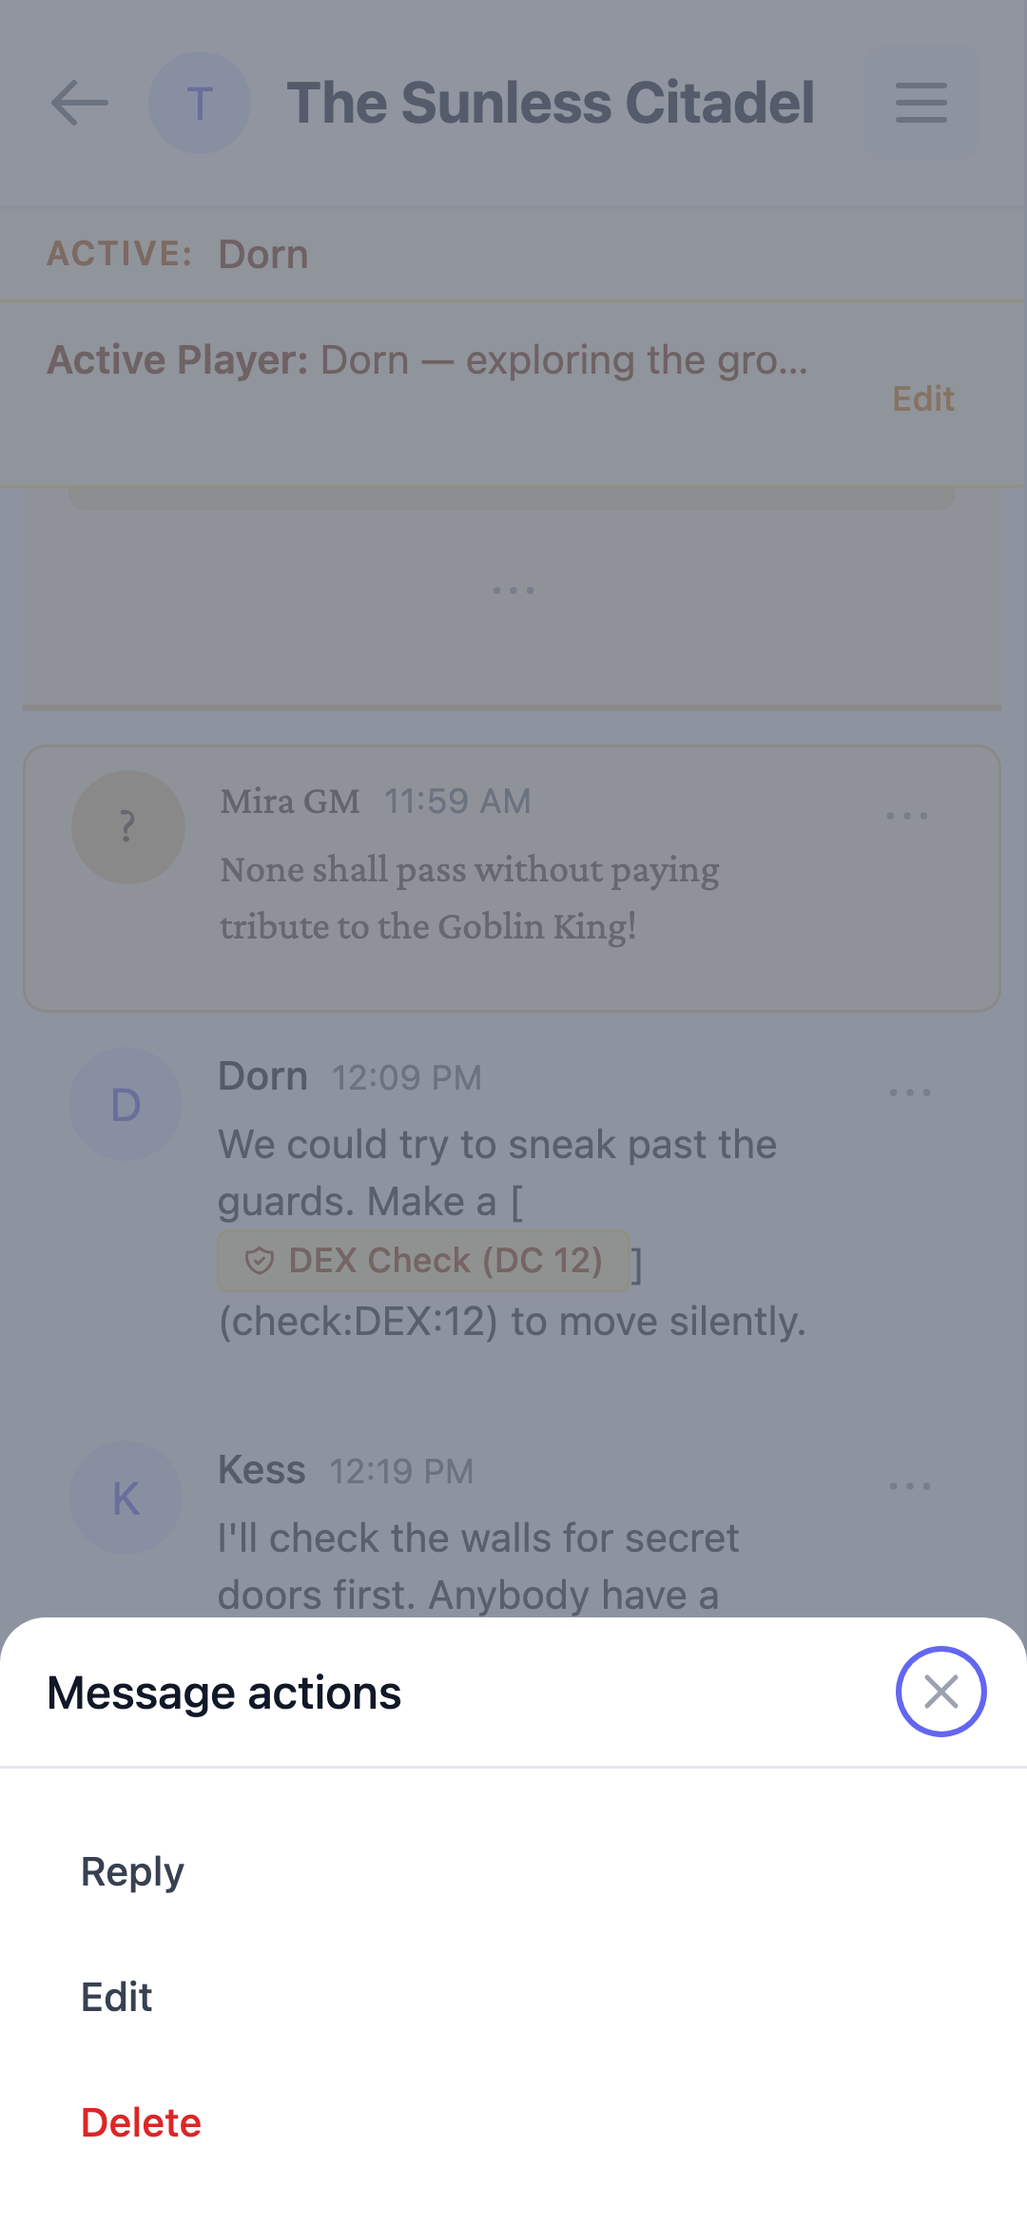
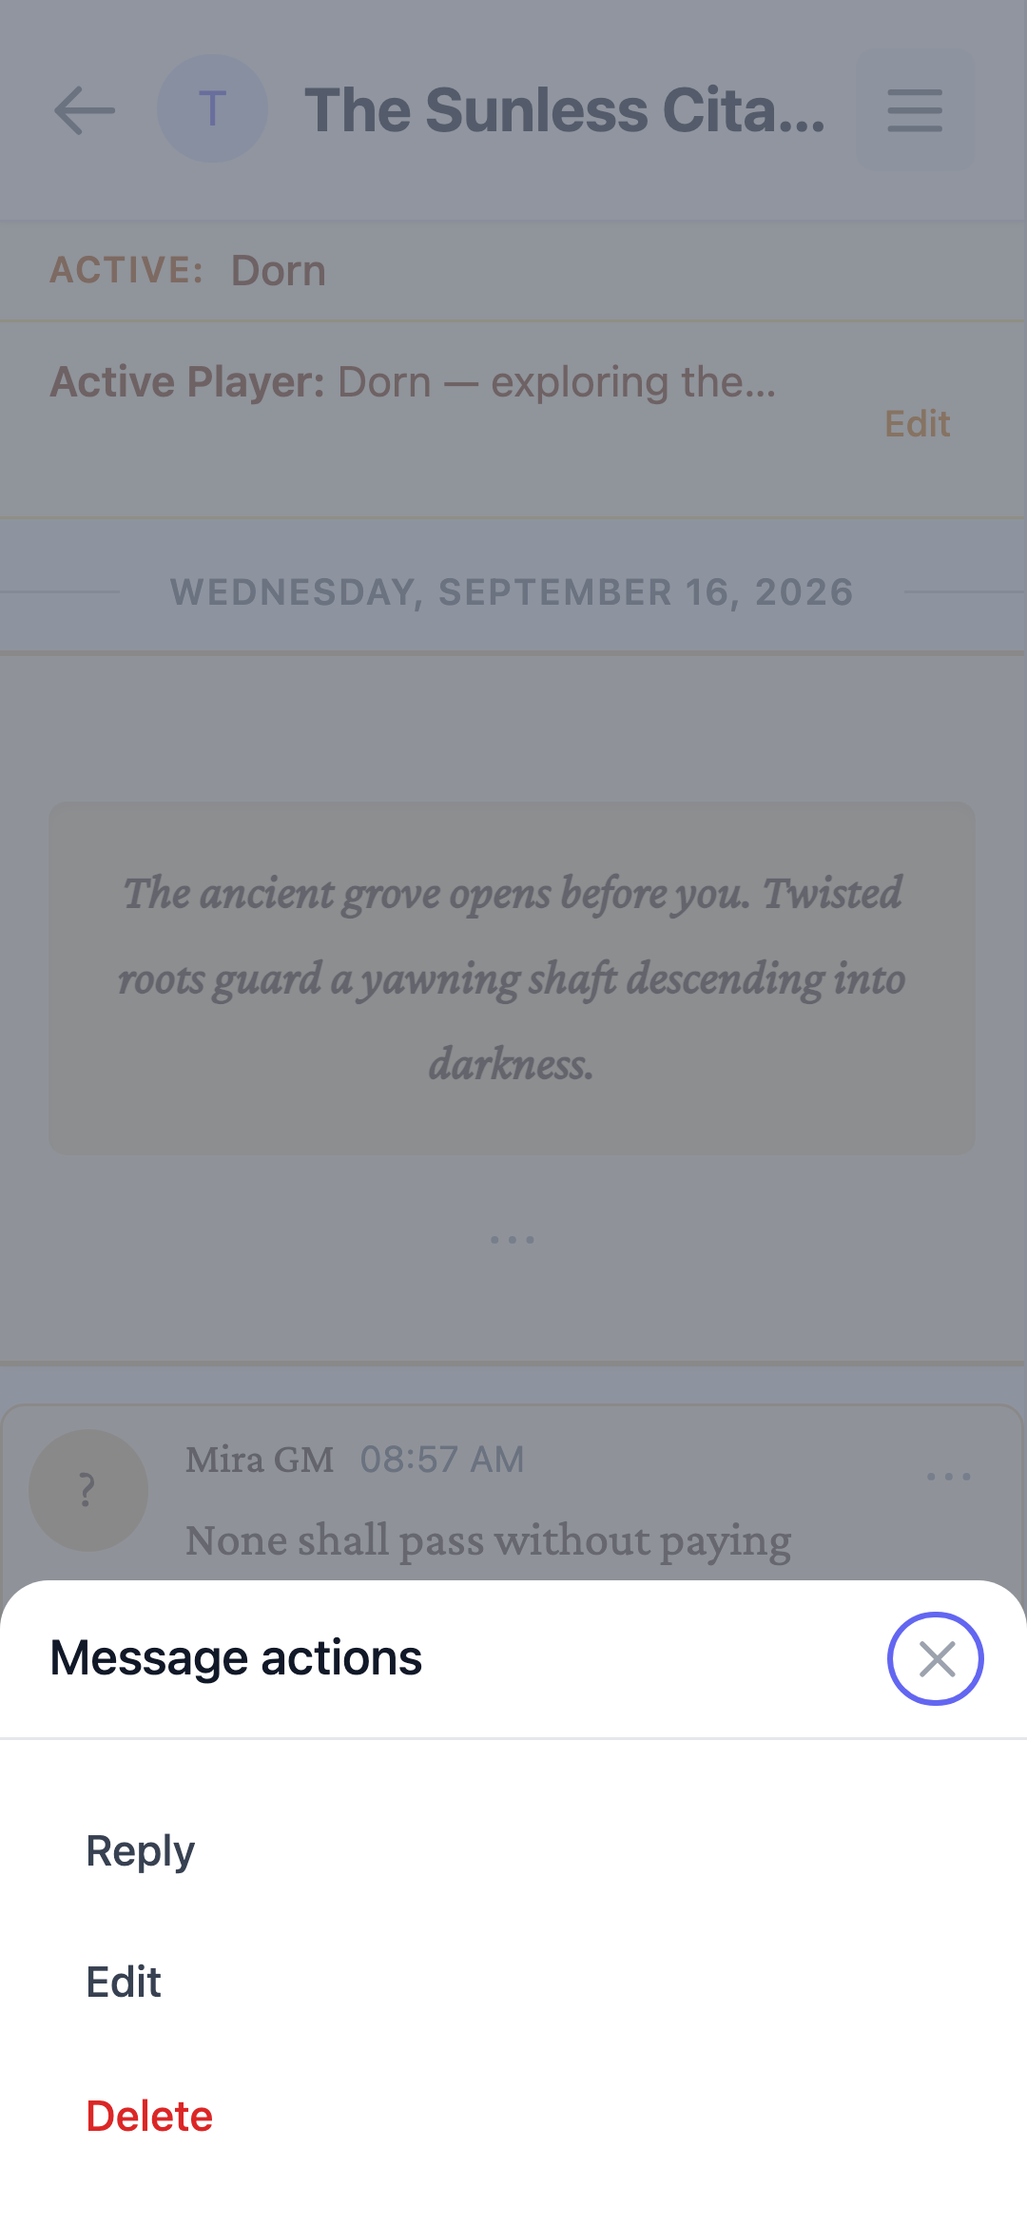
feat(#523): legible default text, remove text-size setting

diff --git a/src/features/chat/MessageItem.tsx b/src/features/chat/MessageItem.tsx
@@ -690,17 +690,17 @@ img: ({ node: _node, src, alt, ...props }: React.ComponentProps<'img'> & { node?
               {senderName} rolled dice
             </span>
             {message.roll_dc != null && (
-              <span className="inline-flex items-center px-2 py-0.5 rounded-full text-[10px] font-bold uppercase bg-amber-100 dark:bg-amber-900 text-amber-800 dark:text-amber-300">
+              <span className="inline-flex items-center px-2 py-0.5 rounded-full text-[0.625rem] font-bold uppercase bg-amber-100 dark:bg-amber-900 text-amber-800 dark:text-amber-300">
                 DC {message.roll_dc}
               </span>
             )}
             {typeof message.roll_success === 'boolean' && (
-              <span className={`inline-flex items-center px-2 py-0.5 rounded-full text-[10px] font-bold uppercase ${isSuccess ? 'bg-green-100 dark:bg-green-900 text-green-800 dark:text-green-300' : 'bg-red-100 dark:bg-red-900 text-red-800 dark:text-red-300'}`}>
+              <span className={`inline-flex items-center px-2 py-0.5 rounded-full text-[0.625rem] font-bold uppercase ${isSuccess ? 'bg-green-100 dark:bg-green-900 text-green-800 dark:text-green-300' : 'bg-red-100 dark:bg-red-900 text-red-800 dark:text-red-300'}`}>
                 {isSuccess ? 'Success' : 'Failure'}
               </span>
             )}
           </div>
-          <div className="text-surface-900 dark:text-surface-100 text-sm">
+          <div className="text-surface-900 dark:text-surface-100 text-base">
             <Markdown>{message.content}</Markdown>
           </div>
           {errorOverlay}
@@ -710,7 +710,7 @@ img: ({ node: _node, src, alt, ...props }: React.ComponentProps<'img'> & { node?
   }
 
   return (
-    <div ref={itemRef} className={`relative group flex items-start space-x-3 my-1 px-4 py-2 transition-all duration-1000 ${isWhisper ? 'bg-purple-50 dark:bg-purple-950 rounded-lg border border-purple-100 dark:border-purple-900' : ''} ${isNpc ? 'bg-parchment dark:bg-parchment-dark rounded-lg border border-parchment-border dark:border-parchment-border-dark' : ''} ${isHighlighted ? 'bg-yellow-50 dark:bg-yellow-950 ring-2 ring-yellow-400 rounded-lg' : ''} ${message.pending ? 'opacity-60' : ''}`}>
+    <div ref={itemRef} className={`relative group flex items-start space-x-3 my-1 px-2 py-2 sm:px-3 transition-all duration-1000 ${isWhisper ? 'bg-purple-50 dark:bg-purple-950 rounded-lg border border-purple-100 dark:border-purple-900' : ''} ${isNpc ? 'bg-parchment dark:bg-parchment-dark rounded-lg border border-parchment-border dark:border-parchment-border-dark' : ''} ${isHighlighted ? 'bg-yellow-50 dark:bg-yellow-950 ring-2 ring-yellow-400 rounded-lg' : ''} ${message.pending ? 'opacity-60' : ''}`}>
       {pendingOverlay}
       <div className="flex-shrink-0">
         {isNpc ? (
@@ -750,7 +750,7 @@ img: ({ node: _node, src, alt, ...props }: React.ComponentProps<'img'> & { node?
 
         {replyBlock}
 
-        <div className={`mt-1 text-sm text-surface-800 dark:text-surface-200 prose prose-sm prose-indigo dark:prose-invert max-w-none break-words ${isNpc ? 'font-serif text-parchment-ink dark:text-parchment-ink-dark prose-p:text-parchment-ink dark:prose-p:text-parchment-ink-dark prose-a:text-parchment-ink-strong dark:prose-a:text-parchment-ink-strong-dark prose-strong:text-parchment-ink-strong dark:prose-strong:text-parchment-ink-strong-dark' : ''}`}>
+        <div className={`mt-1 text-base text-surface-800 dark:text-surface-200 prose prose-sm prose-indigo dark:prose-invert max-w-none break-words ${isNpc ? 'font-serif text-parchment-ink dark:text-parchment-ink-dark prose-p:text-parchment-ink dark:prose-p:text-parchment-ink-dark prose-a:text-parchment-ink-strong dark:prose-a:text-parchment-ink-strong-dark prose-strong:text-parchment-ink-strong dark:prose-strong:text-parchment-ink-strong-dark' : ''}`}>
           {message.is_deleted ? (
             <span className="text-surface-400 dark:text-surface-400 italic">This message was deleted.</span>
           ) : isEditing ? (

diff --git a/src/features/auth/ProfileSettings.tsx b/src/features/auth/ProfileSettings.tsx
@@ -7,20 +7,12 @@ import { useAuth } from './useAuth'
 import { deleteAccount, updateDisplayName, updateEmailOptIn } from './authApi'
 import { usePushNotifications } from '../notifications/usePushNotifications'
 import { useToast } from '../../contexts/ToastContext'
-import { useTextSize, TEXT_SIZE_NORMAL, TEXT_SIZE_LARGE, TEXT_SIZE_XLARGE, type TextSize } from '../../hooks/useTextSize'
 import { buildUserDataExport, downloadJson } from './exportUserData'
 import { MAX_DISPLAY_NAME_LENGTH } from '../../constants'
-
-const TEXT_SIZE_OPTIONS: { value: TextSize; label: string }[] = [
-  { value: TEXT_SIZE_NORMAL, label: 'Normal' },
-  { value: TEXT_SIZE_LARGE, label: 'Large' },
-  { value: TEXT_SIZE_XLARGE, label: 'Extra large' },
-]
 
 export function ProfileSettings() {
   const { user, profile, signOut, refreshProfile } = useAuth()
   const { addToast } = useToast()
-  const { textSize, setSize } = useTextSize()
   const [displayName, setDisplayName] = useState(profile?.display_name || '')
   const [isSaving, setIsSaving] = useState(false)
   const [isExporting, setIsExporting] = useState(false)
@@ -230,35 +222,6 @@ export function ProfileSettings() {
               </button>
             </div>
           </form>
-        </div>
-      </div>
-
-      <div>
-        <h3 className="text-xl font-bold text-surface-900 dark:text-surface-100 mb-4">Appearance</h3>
-        <div className="bg-white dark:bg-surface-800 shadow rounded-lg p-6">
-          <div>
-            <h4 className="text-sm font-medium text-surface-900 dark:text-surface-100">Text size</h4>
-            <p className="text-sm text-surface-500 dark:text-surface-400 mt-1">
-              Controls the size of all app text. Pick the size that reads most comfortably for you.
-            </p>
-          </div>
-          <div className="mt-4 flex flex-wrap items-center space-x-2" role="group" aria-label="Text size">
-            {TEXT_SIZE_OPTIONS.map(({ value, label }) => (
-              <button
-                key={value}
-                type="button"
-                onClick={() => setSize(value)}
-                aria-pressed={textSize === value}
-                className={`inline-flex justify-center rounded-md border py-2 px-4 text-sm font-medium whitespace-nowrap transition-colors focus:outline-none focus:ring-2 focus:ring-primary-500 focus:ring-offset-2 ${
-                  textSize === value
-                    ? 'border-transparent bg-primary-600 text-white shadow-sm hover:bg-primary-700'
-                    : 'border-surface-300 dark:border-surface-600 bg-white dark:bg-surface-800 text-surface-700 dark:text-surface-300 shadow-sm hover:bg-surface-50 dark:hover:bg-surface-700'
-                }`}
-              >
-                {label}
-              </button>
-            ))}
-          </div>
         </div>
       </div>
 

diff --git a/src/features/channels/Lobby.tsx b/src/features/channels/Lobby.tsx
@@ -183,7 +183,7 @@ export function Lobby() {
               {filteredMy.map((channel) => (
                 <li key={channel.id}>
                   <Link to={`/channel/${channel.id}`} className="block hover:bg-surface-50 dark:hover:bg-surface-700 transition-colors">
-                    <div className="flex items-center px-4 py-3 sm:px-6">
+                    <div className="flex items-center px-3 py-3 sm:px-6">
                       {channel.avatar_url ? (
                         <SignedImg
                           src={channel.avatar_url}
@@ -200,11 +200,11 @@ export function Lobby() {
                       <div className="flex-1 min-w-0 ml-3 flex flex-col justify-center">
                         <div className="flex items-center justify-between gap-2">
                           <span className="flex items-center gap-2 min-w-0">
-                            <span className="text-sm font-medium text-primary-600 dark:text-primary-400 truncate">
+                            <span className="text-base font-medium text-primary-600 dark:text-primary-400 truncate">
                               {channel.name}
                             </span>
                             {channel.gm_id === user?.id && (
-                              <span className="inline-flex flex-shrink-0 items-center px-1.5 py-0.5 rounded text-[10px] leading-4 font-semibold uppercase bg-amber-100 dark:bg-amber-900 text-amber-800 dark:text-amber-300">
+                              <span className="inline-flex flex-shrink-0 items-center px-1.5 py-0.5 rounded text-[0.625rem] leading-4 font-semibold uppercase bg-amber-100 dark:bg-amber-900 text-amber-800 dark:text-amber-300">
                                 GM
                               </span>
                             )}
@@ -214,7 +214,7 @@ export function Lobby() {
                           </span>
                         </div>
                         <div className="flex items-center justify-between gap-2">
-                          <span className="text-[15px] text-surface-500 dark:text-surface-400 truncate">
+                          <span className="text-sm text-surface-500 dark:text-surface-400 truncate">
                             {channelPreview(channel.last_message_preview)}
                           </span>
                           {preferences?.badge_enabled !== false && channel.unread_count && channel.unread_count > 0 ? (

diff --git a/src/features/auth/ProfileSettings.test.tsx b/src/features/auth/ProfileSettings.test.tsx
@@ -45,7 +45,6 @@ describe('ProfileSettings', () => {
   beforeEach(() => {
     vi.clearAllMocks()
     window.localStorage.clear()
-    document.documentElement.removeAttribute('data-text-size')
 
     vi.mocked(usePushNotifications).mockReturnValue({
       isConfigured: true, isSupported: true, needsInstall: false,
@@ -105,41 +104,6 @@ describe('ProfileSettings', () => {
     expect(screen.getByLabelText('Display Name')).toHaveAttribute('maxLength', '40')
     expect(screen.getByDisplayValue('user@example.com')).toBeDisabled()
     expect(screen.getByRole('img', { name: 'Avatar' })).toHaveAttribute('src', 'https://example.com/avatar.jpg')
-  })
-
-  it('shows a text size control and applies the chosen size to the document', () => {
-    vi.mocked(useAuth).mockReturnValue({
-      loading: false,
-      error: null,
-      user: { id: '123' } as any,
-      profile: { id: '123', display_name: 'Test Player', avatar_url: null, created_at: '', is_suspended: false, email_opt_in: false, email_opt_in_at: null },
-      session: null,
-      signInWithGoogle: vi.fn(),
-      signOut: vi.fn(),
-      refreshProfile: vi.fn(),
-    })
-
-    renderWithRouter(<ProfileSettings />)
-
-    const group = screen.getByRole('group', { name: 'Text size' })
-    expect(group).toBeInTheDocument()
-
-    // Alignment regression (#382): the row must center its buttons and the
-    // labels must not wrap — "Extra large" wrapping raised the button height
-    // and pushed the other labels to the top.
-    expect(group).toHaveClass('items-center')
-    for (const label of ['Normal', 'Large', 'Extra large']) {
-      expect(screen.getByRole('button', { name: label })).toHaveClass('whitespace-nowrap')
-    }
-
-    const normal = screen.getByRole('button', { name: 'Normal' })
-    expect(normal).toHaveAttribute('aria-pressed', 'true')
-
-    fireEvent.click(screen.getByRole('button', { name: 'Extra large' }))
-    expect(document.documentElement.getAttribute('data-text-size')).toBe('xlarge')
-    expect(window.localStorage.getItem('rolebypost-text-size')).toBe('xlarge')
-    expect(screen.getByRole('button', { name: 'Extra large' })).toHaveAttribute('aria-pressed', 'true')
-    expect(screen.getByRole('button', { name: 'Normal' })).toHaveAttribute('aria-pressed', 'false')
   })
 
   it('updates display name on submit and shows success message', async () => {

diff --git a/src/features/channels/MemberList.tsx b/src/features/channels/MemberList.tsx
@@ -174,17 +174,17 @@ export function MemberList({ members, isGM, gmId, myUserId, gameSystem = 'none',
                           {member.character_name}
                         </p>
                         {member.is_away && (
-                          <span className="inline-flex items-center px-1.5 py-0.5 rounded text-[10px] font-bold bg-surface-200 dark:bg-surface-700 text-surface-600 dark:text-surface-400 uppercase">
+                          <span className="inline-flex items-center px-1.5 py-0.5 rounded text-[0.625rem] font-bold bg-surface-200 dark:bg-surface-700 text-surface-600 dark:text-surface-400 uppercase">
                             AFK
                           </span>
                         )}
                         {member.is_active_player && (
-                          <span className="inline-flex items-center px-1.5 py-0.5 rounded text-[10px] font-bold bg-primary-100 dark:bg-primary-900 text-primary-800 dark:text-primary-200 uppercase">
+                          <span className="inline-flex items-center px-1.5 py-0.5 rounded text-[0.625rem] font-bold bg-primary-100 dark:bg-primary-900 text-primary-800 dark:text-primary-200 uppercase">
                             Active
                           </span>
                         )}
                         {member.user_id === gmId && (
-                          <span className="inline-flex items-center px-1.5 py-0.5 rounded text-[10px] font-medium bg-amber-100 dark:bg-amber-900 text-amber-800 dark:text-amber-300">
+                          <span className="inline-flex items-center px-1.5 py-0.5 rounded text-[0.625rem] font-medium bg-amber-100 dark:bg-amber-900 text-amber-800 dark:text-amber-300">
                             GM
                           </span>
                         )}

diff --git a/src/features/chat/MessageList.tsx b/src/features/chat/MessageList.tsx
@@ -431,7 +431,7 @@ export function MessageList({ messages, isGM, onEdit, onDelete, onRollDice, high
       role="log"
       aria-live="polite"
       tabIndex={0}
-      className="flex-1 overflow-y-auto overflow-x-hidden px-2 py-1 space-y-2"
+      className="flex-1 overflow-y-auto overflow-x-hidden px-0 py-1 space-y-2"
     >
       <div ref={contentRef}>
       {hasMore && (
@@ -460,7 +460,7 @@ export function MessageList({ messages, isGM, onEdit, onDelete, onRollDice, high
         return (
           <Fragment key={message.id}>
             {showDivider && (
-              <div data-testid="date-divider" className="flex items-center my-3 -mx-2">
+              <div data-testid="date-divider" className="flex items-center my-3">
                 <div className="flex-grow border-t border-surface-300 dark:border-surface-600"></div>
                 <span className="flex-shrink-0 mx-4 text-xs font-semibold text-surface-500 dark:text-surface-400 uppercase tracking-wider">
                   {currentDate}
@@ -469,7 +469,7 @@ export function MessageList({ messages, isGM, onEdit, onDelete, onRollDice, high
               </div>
             )}
             {showNewDivider && (
-              <div ref={newMessagesDividerRef} data-testid="new-messages-divider" className="flex items-center my-3 -mx-2">
+              <div ref={newMessagesDividerRef} data-testid="new-messages-divider" className="flex items-center my-3">
                 <div className="flex-grow border-t-2 border-red-400 dark:border-red-500"></div>
                 <span className="flex-shrink-0 mx-4 text-xs font-semibold text-red-500 dark:text-red-400 uppercase tracking-wider">
                   New messages

diff --git a/src/features/dice/RollHistoryModal.tsx b/src/features/dice/RollHistoryModal.tsx
@@ -81,7 +81,7 @@ export function RollHistoryModal({ channelId, onClose }: RollHistoryModalProps) 
                           <div className="text-xs font-semibold text-gray-500 dark:text-gray-400 uppercase tracking-wider mb-1">Result</div>
                           <div className="text-2xl font-bold text-gray-900 dark:text-gray-100">{roll.result}</div>
                           {crit && (
-                            <div className={`mt-1 inline-flex items-center px-2 py-0.5 rounded-full text-[10px] font-bold uppercase ${crit === 'success' ? 'bg-green-100 dark:bg-green-900 text-green-800 dark:text-green-300' : 'bg-red-100 dark:bg-red-900 text-red-800 dark:text-red-300'}`}>
+                            <div className={`mt-1 inline-flex items-center px-2 py-0.5 rounded-full text-[0.625rem] font-bold uppercase ${crit === 'success' ? 'bg-green-100 dark:bg-green-900 text-green-800 dark:text-green-300' : 'bg-red-100 dark:bg-red-900 text-red-800 dark:text-red-300'}`}>
                               {crit === 'success' ? 'Critical Success' : 'Critical Failure'}
                             </div>
                           )}

diff --git a/src/features/channels/Lobby.test.tsx b/src/features/channels/Lobby.test.tsx
@@ -261,7 +261,7 @@ describe('Lobby', () => {
     expect(pill).toHaveClass('bg-red-600')
   })
 
-  it('renders the sender-prefixed preview as plain text at the larger size', () => {
+  it('renders the channel name larger than the message preview (#523)', () => {
     vi.mocked(useChannels).mockReturnValue({
       myChannels: [
         { id: '1', name: 'Talk', last_message_preview: 'Hero: *waves*', unread_count: 0 } as any,
@@ -273,7 +273,8 @@ describe('Lobby', () => {
 
     render(<Lobby />, { wrapper: MemoryRouter })
     const preview = screen.getByText('Hero: waves')
-    expect(preview).toHaveClass('text-[15px]')
+    expect(preview).toHaveClass('text-sm')
+    expect(screen.getByText('Talk')).toHaveClass('text-base')
   })
 
   it('shows a short timestamp and a stripped message preview per channel', () => {

diff --git a/src/features/admin-messages/ThreadList.tsx b/src/features/admin-messages/ThreadList.tsx
@@ -83,7 +83,7 @@ export function ThreadList({ selectedThreadId, onSelectThread }: { selectedThrea
                   <div className="flex items-center gap-2">
                     {thread.type === 'announcement' && (
                       <span
-                        className="shrink-0 inline-flex items-center px-1.5 py-0.5 rounded text-[11px] font-medium bg-blue-50 dark:bg-blue-900/40 text-blue-700 dark:text-blue-300"
+                        className="shrink-0 inline-flex items-center px-1.5 py-0.5 rounded text-[0.6875rem] font-medium bg-blue-50 dark:bg-blue-900/40 text-blue-700 dark:text-blue-300"
                       >
                         {thread.audience === 'all_users' ? 'All users' : 'GMs'}
                       </span>

diff --git a/src/index.css b/src/index.css
@@ -3,10 +3,11 @@
 @tailwind utilities;
 
 @layer base {
-  /* Text-size setting (see useTextSize). Scales the whole app's base font,
-     like a browser zoom, so every rem-based Tailwind size follows. */
-  html[data-text-size='large'] { font-size: 1.125rem; }
-  html[data-text-size='xlarge'] { font-size: 1.25rem; }
+  /* Base type scale: 17px (106.25% of the 16px browser default). Every
+     rem-based Tailwind size and spacing follows it, so the app reads closer
+     to a native messaging app. Users who need more rely on OS/browser text
+     scaling, which this relative base respects. */
+  html { font-size: 106.25%; }
 
   body {
     @apply bg-gray-50 text-gray-900 dark:bg-gray-900 dark:text-gray-100;

diff --git a/src/features/chat/MessageItem.test.tsx b/src/features/chat/MessageItem.test.tsx
@@ -164,9 +164,9 @@ describe('MessageItem', () => {
     }
     render(<MessageItem message={msg} currentUserId="u1" isGM={false} onEdit={vi.fn()} onDelete={vi.fn()} />)
     // The dice card wrapper must use the normal message text scale, not a
-    // larger one (regression #500).
+    // larger one (regression #500). Base message scale is text-base (#523).
     const content = screen.getByText('15').closest('div')
-    expect(content?.className).toContain('text-sm')
+    expect(content?.className).toContain('text-base')
     expect(content?.className).not.toContain('text-lg')
   })
 

diff --git a/src/main.tsx b/src/main.tsx
@@ -8,15 +8,10 @@ import App from './App.tsx'
 import { ErrorBoundary } from './components/ErrorBoundary'
 import { initAnalytics } from './lib/analytics'
 import { initSentry } from './lib/sentry'
-import { applyStoredTextSize } from './hooks/useTextSize'
 
 void initSentry()
 
 initAnalytics()
-
-// Restore the persisted text size before first paint so it doesn't flash back
-// to normal on every full page load (see useTextSize).
-applyStoredTextSize()
 
 createRoot(document.getElementById('root')!).render(
   <StrictMode>
